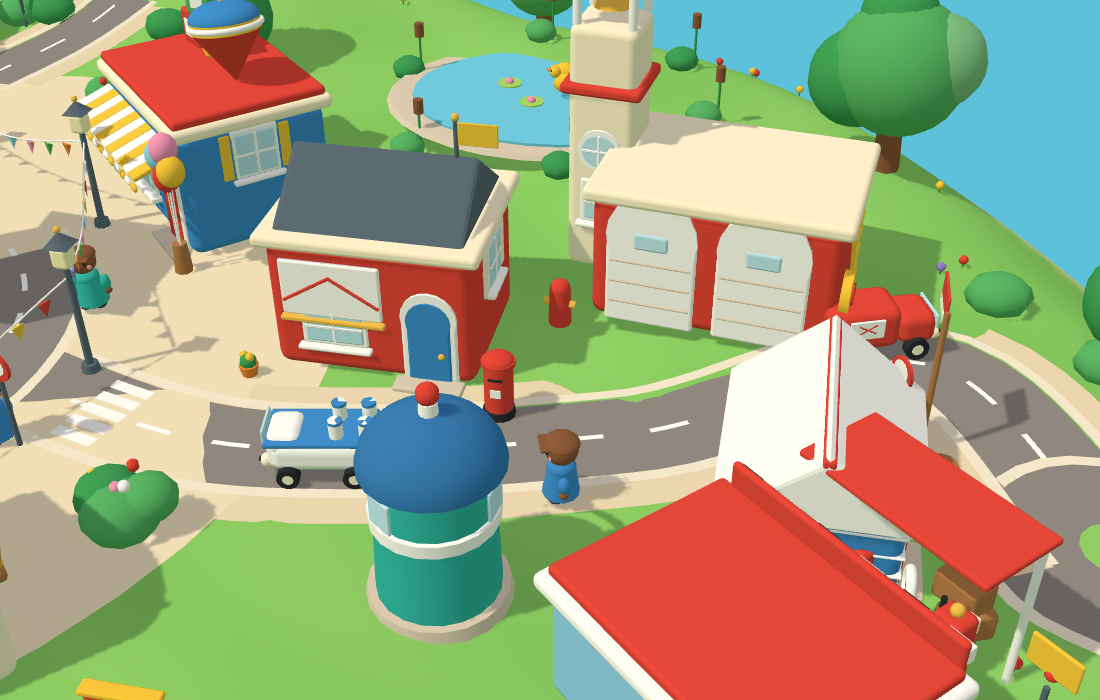
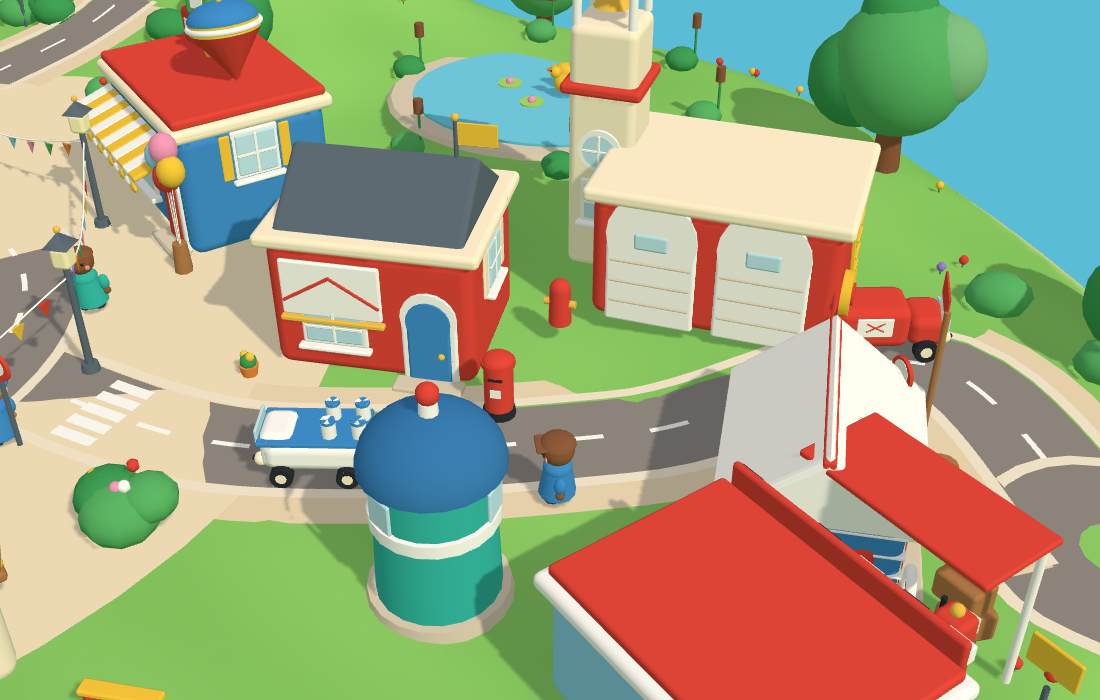
New Toy Town phases 5-6: day and night with lit windows, weather with umbrellas, 24 small stories staged by the news, adaptive resolution
Claude-Session: https://claude.ai/code/session_016DDzLFPb4BuxMAThu2pji2

diff --git a/toy-town-new.html b/toy-town-new.html
@@ -14,8 +14,11 @@ canvas:active{cursor:grabbing}
 #chip{position:fixed;left:calc(12px + env(safe-area-inset-left,0px));top:calc(12px + env(safe-area-inset-top,0px));padding:6px 12px;border-radius:999px;background:var(--paper);font:600 13px/1.3 Nunito,system-ui,sans-serif}
 #chip a{color:inherit;font-weight:400;margin-left:8px}
 #hint{position:fixed;left:50%;transform:translateX(-50%);bottom:calc(14px + env(safe-area-inset-bottom,0px));padding:5px 12px;border-radius:999px;background:var(--paper);font:400 12px/1.3 Nunito,system-ui,sans-serif;transition:opacity .6s;max-width:calc(100vw - 32px);text-align:center}
+#story{position:fixed;left:50%;transform:translateX(-50%);top:calc(52px + env(safe-area-inset-top,0px));max-width:min(86vw,560px);padding:6px 14px;border-radius:14px;background:var(--paper);font:600 13px/1.35 Nunito,system-ui,sans-serif;text-align:center;opacity:0;transition:opacity .6s;pointer-events:none}
+#story small{display:block;font-weight:400;opacity:.8}
+#story.on{opacity:1}
 #fail{position:fixed;inset:0;display:none;align-items:center;justify-content:center;padding:24px;text-align:center;background:#bfe9fb}
-html.ui-off #chip,html.ui-off #hint{display:none}
+html.ui-off #chip,html.ui-off #hint,html.ui-off #story{display:none}
 </style>
 <script type="importmap">
 {"imports":{
@@ -27,11 +30,12 @@ html.ui-off #chip,html.ui-off #hint{display:none}
 <body>
 <canvas id="town" aria-label="Toy Town: a little storybook town with a clock tower, a teapot café and a windmill"></canvas>
 <div id="chip">Toy Town · new build preview<a href="toy-town.html">current town</a></div>
+<div id="story" aria-live="polite"></div>
 <div id="hint">Drag to explore · pinch or scroll to zoom · twist (or right-drag, Q/E) to turn</div>
 <div id="fail">The new town needs WebGL, which this browser could not start. <a href="toy-town.html">Open the current town</a>.</div>
 <script>if(/[?&]clean=1\b/.test(location.search))document.documentElement.classList.add('ui-off');</script>
 <script type="module">
-  import('./assets/town2/main.mjs?v=1').catch(e => { console.error(e); document.getElementById('fail').style.display = 'flex'; });
+  import('./assets/town2/main.mjs?v=2').catch(e => { console.error(e); document.getElementById('fail').style.display = 'flex'; });
 </script>
 </body>
 </html>

diff --git a/TOY_TOWN_NEW_SPEC.md b/TOY_TOWN_NEW_SPEC.md
@@ -15,8 +15,8 @@ log a START entry before touching code, a DONE entry after, no force pushes).
 | 2 | The Square and first landmarks (14 buildings), a cast of 10, 3 vehicles | **Done** |
 | 3 | Remaining districts: station and shuttle train, school with playground, farm with animals, garage, harbour hut with a jetty and boat, pond with ducks, a fifth cottage | **Done** (no stream, no extra cottages) |
 | 4 | Full cast life: timetables by hour, named vehicles (milk float, tractor, fire engine, ice-cream van), a train | **Done** |
-| 5 | Day and night, weather, small stories, the daily-news staging | Not started |
-| 6 | Phone performance pass, then make it the default town | Not started |
+| 5 | Day and night, weather, small stories, the daily-news staging | **Done** (no sound, no tapping on things, no lamplighter figure: lanterns just glow) |
+| 6 | Phone performance pass, then make it the default town | Adaptive resolution **done**; measuring on a real phone and the switch are **open** (the owner decides the switch) |
 
 It is live at `toy-town-new.html` (or `toy-town.html?town=new`, or `index.html?town=new#toy-town`). The current
 town is untouched and stays the default until the owner approves the switch.
@@ -27,14 +27,17 @@ town is untouched and stays the default until the owner approves the switch.
 |---|---|---|
 | `assets/town2/def.mjs` | The town as data: palette, island, roads, buildings, cast, vehicles, trees, `heightAt` | nothing |
 | `assets/town2/graph.mjs` | Road graph, door-to-door walks, the vehicles' tour | `def` |
-| `assets/town2/sim.mjs` | Who is where and when (residents, vehicles) | `def`, `graph` |
+| `assets/town2/weather.mjs` | Spells of clear, cloud, rain, drizzle; `rain` eases 0..1 | `def` |
+| `assets/town2/stories.mjs` | The small stories (data) and `newsStory(title, category)` | nothing |
+| `assets/town2/sky.mjs` | `skyAt(hour, rain)`: sky, fog, sea, sun/moon, window glow, stars (hex strings) | nothing |
+| `assets/town2/sim.mjs` | Who is where and when (residents, vehicles, weather, stories) | `def`, `graph`, `weather`, `stories` |
 | `assets/town2/build.mjs` | Geometry builders (THREE) | `def`, `graph`, `three` |
 | `assets/town2/main.mjs` | Renderer, camera, controls, loop, test hooks | all |
 | `toy-town-new.html` | The page (import map for three 0.187 from the CDN) | |
 | `tests/toy-town-new.test.cjs` | Logic test, no browser | |
 | `tests/toy-town-new-visual.cjs` | Real-WebGL check and screenshots | |
 
-Rule: `def`, `graph` and `sim` are pure (no THREE, no DOM), so they run in Node. Keep it that way.
+Rule: `def`, `graph`, `weather`, `stories`, `sky` and `sim` are pure (no THREE, no DOM), so they run in Node. Keep it that way.
 
 ## 3. World model
 
@@ -76,7 +79,16 @@ Rule: `def`, `graph` and `sim` are pure (no THREE, no DOM), so they run in Node.
 4. **The day.** One day is `DAY` = 480 s of simulation, starting at 06:00 (`sim.hour`, `sim.setHour(h)`). Residents wake and
    sleep by their own hours and everybody heads home after hours, so the town is nearly empty at night. Vehicles
    work their hours, then drive on to their own garage (never any other) and park out of sight.
-5. **Determinism.** `createSim(seed)` gives the same town life for the same seed and step sequence.
+5. **Weather.** `sim.weather` (`kind`, `rain`, `cloud`) runs in the sim. In rain vehicles slow by up to 18 %, walkers speed up by 15 %,
+   every resident puts up an umbrella (a small hidden mesh each, shown when `rain > .25`), streaks fall round the view,
+   and the sky and sun dull. `sim.weather.force('rain', seconds)` makes it rain.
+6. **Small stories.** `sim.story` runs one story at a time from `STORIES`: when its hours, weather and cast fit, each resident in it gets
+   a queue of `errands` (`[place, seconds]`) that they walk door to door before resuming their round. The least-seen stories are favoured and
+   each has a 180 s cooldown. The news stages the same stories: `main.mjs` reads `assets/toy-town-news.json` (light headlines), maps each with
+   `newsStory(title, category)` and calls `sim.stage(id, headline)`; it waits for half the cast to be up, then the caption shows "In the news: ...".
+7. **Light.** `sky.mjs` gives dawn about 06:00, day, dusk about 18:30 and a dark blue night; at night every window pane and lantern glows
+   (one extra draw call: the `glow` mesh, collected by `Bag` pieces made with `glow: true`) and stars and a moon appear.
+8. **Determinism.** `createSim(seed)` gives the same town life for the same seed and step sequence.
 
 ## 5. Art rules
 
@@ -96,8 +108,8 @@ Rule: `def`, `graph` and `sim` are pure (no THREE, no DOM), so they run in Node.
 
 | | Now | Limit |
 |---|---|---|
-| Draw calls, default view | 64 | 80 |
-| Triangles, default view | 604 k | 800 k |
+| Draw calls, default view | 64–66 | 80 (night 62, rain 69) |
+| Triangles, default view | 608 k | 800 k |
 | Residents out at once | ~4–7 | — |
 
 The limits are asserted in `tests/toy-town-new-visual.cjs`. Rounded boxes use 1 or 2 segments and small
@@ -106,7 +118,8 @@ spheres 8; keep that discipline (the first version was 1.05 M triangles from 3-s
 ## 7. Test hooks (`window.ToyTownNew`)
 
 - `sim`, `scene`, `camera`, `renderer`, `view`
-- `info()` → `{calls, triangles, residentsOut, clock}`
+- `info()` → `{calls, triangles, residentsOut, clock, pixelRatio, story, rain}`
+- `setHour(h)`, `setWeather('rain'|'clear'|..., seconds)`; `?h=<hour>` starts at an hour, `?news=0` turns the news staging off, `?tune=0` turns the adaptive resolution off
 - `look(x, z, dist, yaw)` puts the camera there and renders
 - `advance(seconds)` steps the simulation and renders
 - `freeze(on)` stops the animation loop (use before `look`/`advance` in screenshots)
@@ -136,7 +149,10 @@ visual step uploads `new-town-*.png` (wide, square, high street, cottage lane, w
 
 ## 9. Known gaps
 
-- No day and night, weather, sound, news staging, or tapping on things yet (phases 4–5).
+- No sound, tapping on things, puddles, snow or seasons. No lamplighter figure (lanterns simply glow).
+- Adaptive resolution (steps the pixel ratio down after 2 s under ~24 fps, and drops the shadow when already at 1.0) has not been measured on a real phone.
+- Vehicles cannot overtake, so a late one can queue behind a slow tractor.
+- Story captions are English text from a data file; the headline text is only ever shown with `textContent`.
 - Vehicles do not give way to each other at the ring (they do not need to: one tour), so it never looks like
   a junction negotiation.
 - Walkers do not avoid each other.

diff --git a/README.md b/README.md
@@ -118,7 +118,7 @@ People no longer walk on the river: every walking leg (events, gatherings, whims
 
 **Faster, same picture.** A profile of the merged city showed about 6,800 draw calls and 3.4 M triangles per frame. The static batcher now bakes plain painted colours into vertex colours (one shared material per surface finish), residents, cars and bicycles merge their plainly painted pieces inside each rigid node, and the sphere/capsule geometry used for people is trimmed (they are 20–60 px tall). Result: about 4,700 draw calls and 2.6 M triangles at the default view with a pixel-identical render (mean difference 0.05/255 against master). The simulation shares one per-frame snapshot of cars and walkers in the carriageway instead of rescanning every mover for every car (1.7 → 0.9 ms per simulated frame).
 
-**A new storybook town (preview).** `toy-town-new.html` (or `toy-town.html?town=new`) is a rebuild in a toy-box style: a roundabout square with a clock tower, a teapot café, a toy shop with a spinning top, a loaf-shaped bakery, a bandstand, a post office, a fire station, a police box, a mushroom cottage, four cottages and a windmill on a hill, joined by curved lanes on a rolling island. Ten named residents go door to door on the pavements and a bus, a taxi and a post van drive one closed tour of the lanes. The whole static town is one mesh (33 draw calls, 462 k triangles). The current town stays the default; `TOY_TOWN_NEW_SPEC.md` is the spec for the remaining phases.
+**A new storybook town (preview).** `toy-town-new.html` (or `toy-town.html?town=new`) is a rebuild in a toy-box style: a roundabout square with a clock tower, a teapot café, a toy shop with a spinning top, a loaf-shaped bakery, a bandstand, a post office, a fire station, a round kiosk, a mushroom cottage, five cottages, a station with a shuttle train, a school, a farm with animals, a garage, a harbour hut with a jetty and boat, a pond with ducks and a windmill on a hill, joined by curved lanes on a rolling island. Fourteen named residents go door to door on the pavements by the hour (and sleep at night); a bus, taxi, post van, milk float, tractor, ice-cream van and an on-call fire engine keep to their own garages and hours. The day turns from dawn through dusk to a lit-window night, it rains with umbrellas up, two dozen small stories play out (and the day's light headlines stage some of them), and the render resolution adapts on slow phones. The whole static town is one mesh (about 65 draw calls, 608 k triangles). The current town stays the default; `TOY_TOWN_NEW_SPEC.md` is the spec and what is still open (real-phone measurement, the switch).
 
 **Resident level of detail.** Plain residents have a second, far figure of three small meshes (body and two legs, about 350 triangles instead of about 10 000, built from the same colours; the legs still swing). Each resident is switched by its projected height on screen (far under 46 px, back to the full rig over 62 px), by one central pass over a registry, so it covers actors, ambient walkers and the city's people. At the default view 88 of 95 residents are far: draw calls 4,462 → 3,062 and triangles 2.56 M → 1.90 M, and close-ups still use the full rig. Residents with a kind, a trade, a briefcase or a hero route never switch.
 

diff --git a/TOY_TOWN_COLLAB.md b/TOY_TOWN_COLLAB.md
@@ -1126,3 +1126,10 @@ A `START` does not prohibit parallel edits. Avoid stepping on each other's uncom
 - **Tests**: logic test now also checks vehicles only keep to their hours (or are on their way home), leave/enter only at their own garage, get home within 150 s, the fire engine goes out and comes back, nobody is about at night. All logic suites pass; real-WebGL screenshots of the tractor, ice-cream van and kiosk checked.
 - Not verified: phone; touch controls. Vehicles cannot overtake, so a late one can queue behind a slow tractor.
 
+### 2026-11-10 · Claude · DONE (new storybook town, merge C: phases 5–6, day and night, weather, stories, the news, a phone pass)
+- **Light** (`sky.mjs`): dawn, day, dusk and a dark blue night driven by the sim hour (a day is 480 s from 06:00); sun and moon move; every window and lantern glows at night through one extra transparent mesh; stars and a moon. **Weather** (`weather.mjs`, in the sim): clear, cloudy, rain and drizzle spells; in rain vehicles slow, walkers hurry, everyone has an umbrella, streaks fall, the sky dulls.
+- **Stories** (`stories.mjs`): 24 small stories (milk round, post round, school run, sports day, book club, tea for two, boat repair, fire drill, rainy-day café and so on) with hours, weather and cast; residents take errands door to door before resuming their round. The news (`assets/toy-town-news.json`, light headlines) stages them: category and keywords pick the story (rain headlines make it rain, fire headlines send the engine out), a pill at the top shows the story and "In the news: ...".
+- **Phone pass**: the resolution steps down automatically when frames are slow. **Not measured on a real phone.**
+- **Tests**: the logic test checks that stories happen and vary, every errand is by name to a place with a door, headline mapping, forced staging, weather spells, and the sky (night is dim with glow and stars, rain dulls the day). The visual test adds night and rain views inside the budgets (night 62 calls, rain 69, default 64–66; 608 k triangles) and screenshots `new-town-night.png` and `new-town-rain.png`. All Toy Town suites pass.
+- Not verified: phone, touch controls, long-run behaviour of the adaptive resolution. The default town is unchanged; switching is the owner's call.
+
